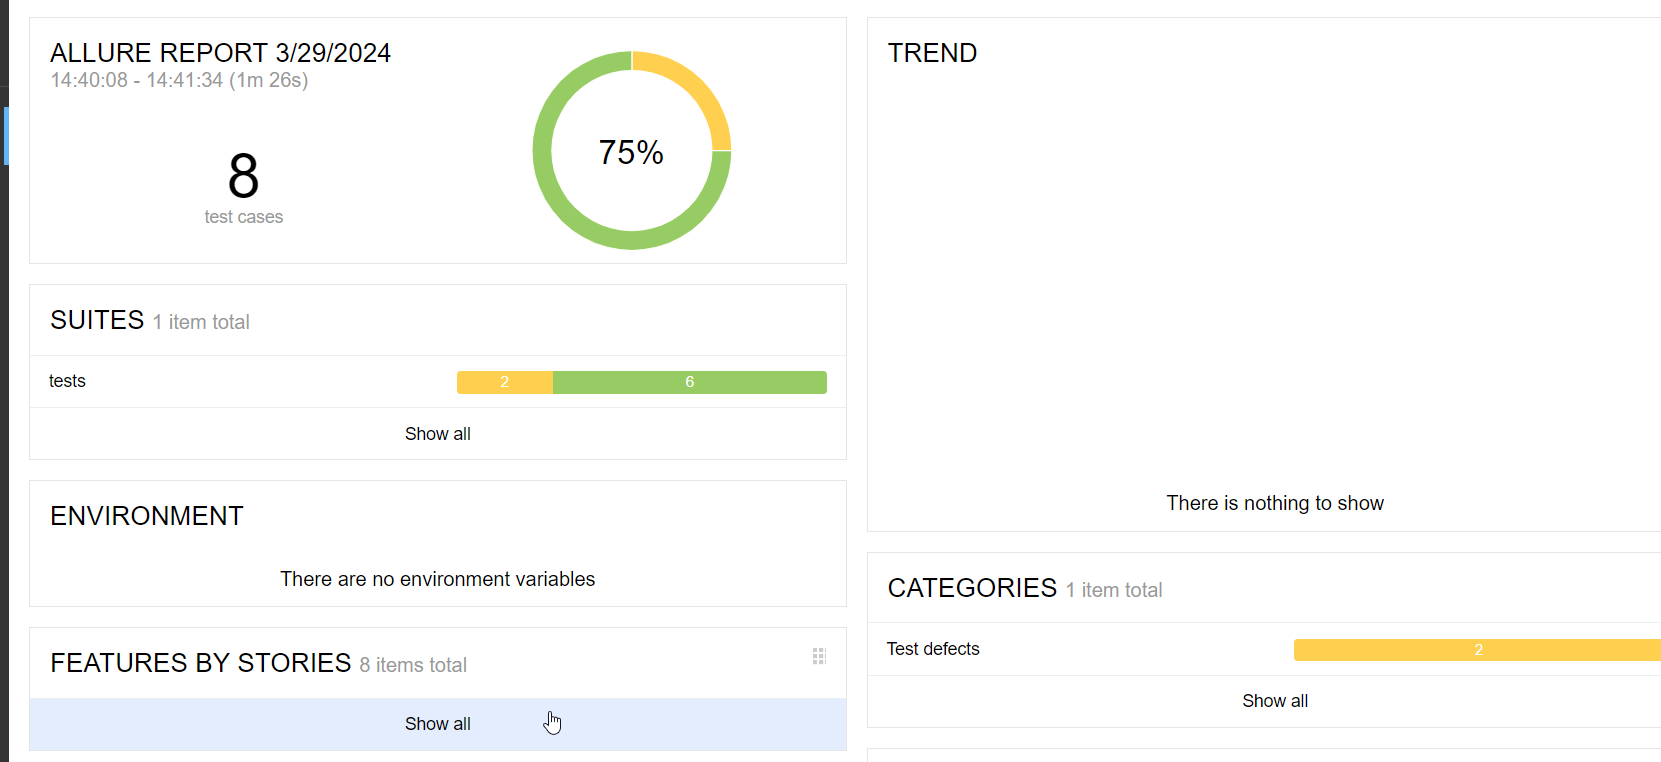
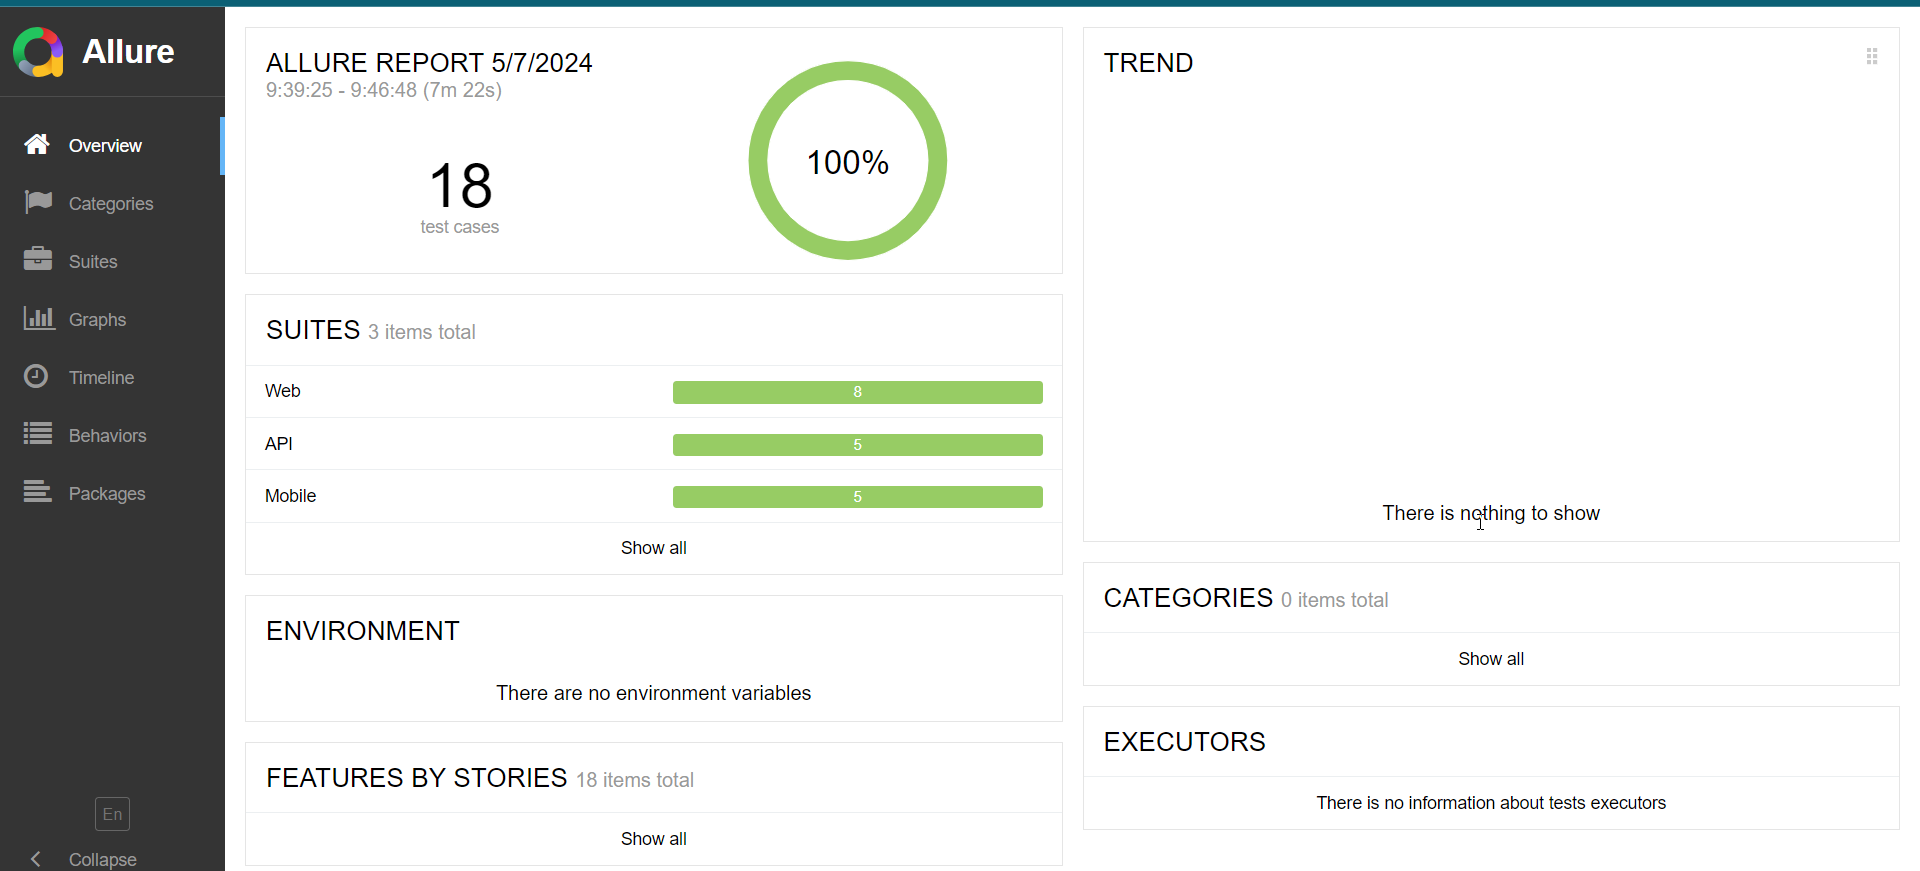
refactor

diff --git a/README.md b/README.md
@@ -1,10 +1,11 @@
-<h1> Проект по тестированию интернет-магазина "KazanExpress"</h1>
+# Проект по автоматизации тестирования сайта и мобильного приложения KazanExpress.ru
 
 > <a target="_blank" href="https://kazanexpress.ru/">Ссылка на сайт</a>
 ![This is an image](design/images/main.png)
 ----
 ### Проект реализован с использованием:
 <img src="design/icons/python-original.svg" width="50"> <img src="design/icons/pytest.png" width="50"> <img src="design/icons/intellij_pycharm.png" width="50"> <img src="design/icons/selene.png" width="50"> <img src="design/icons/selenoid.png" width="50"> <img src="design/icons/jenkins.png" width="50"> <img src="design/icons/allure_report.png" width="50"> <img src="design/icons/allure_testops.png" width="50"> <img src="design/icons/tg.png" width="50"> <img src="design/icons/jira.png" width="50">
+<img src="design/icons/appium.png" width="50"><img src="design/icons/Github.png" width="50"><img src="design/icons/pysharm.png" width="50"><img src="design/icons/request.png" width="50">
 
 ----
 
@@ -17,6 +18,7 @@
 * Интеграция с Allure TestOps
 * Автоматизация отчетности о тестовых прогонах и тест-кейсах в Jira
 * Запуск web/UI автотестов в Selenoid
+* Запуск мобильных автотестов в Browserstack
 
  ### Список проверок, реализованных в web/UI автотестах
 
@@ -30,6 +32,26 @@
 - [x] Удаление товара из корзины
 
 ----
+ ### Список проверок, реализованных в API автотестах
+
+- [x] Запрос на список городов, доступных для доставки
+- [x] Запрос на получение карточки товара
+- [x] Запрос на добавление товара в избранное
+- [x] Запрос на удаление товара из избранного
+- [x] Запрос на изменение персональных данных в профиле покупателя
+
+____
+
+ ### Список проверок, реализованных в mobile автотестах
+
+- [x] Добавление товара в избранное
+- [x] Удаление товара из избранного
+- [x] Добавление товара в корзину
+- [x] Удаление товара из корзины
+- [x] Поиск товара в каталоге
+
+____
+
 ### Локальный запуск
 > Для локального запуска с дефолтными значениями необходимо выполнить команду:
 ```
@@ -37,25 +59,50 @@ python -m venv .venv
 source .venv/bin/activate
 pip install poetry
 poetry install --no-root
-pytest tests
+pytest .
 ```
 ----
 ### Удаленный запуск автотестов выполняется на сервере Jenkins
-> <a target="_blank" href="https://jenkins.autotests.cloud/job/test_kaz_sh/">Ссылка на проект в Jenkins</a>
+> <a target="_blank" href="https://jenkins.autotests.cloud/job/mif_kaz_project">Ссылка на проект в Jenkins</a>
 #### Для запуска автотестов в Jenkins
 
-1. Открыть <a target="_blank" href="https://jenkins.autotests.cloud/job/test_kaz_sh/">проект</a>
-2. Нажать кнопку `Build`
-3. Результат запуска сборки можно посмотреть в отчёте Allure
+1. Открыть <a target="_blank" href="https://jenkins.autotests.cloud/job/mif_kaz_project">проект</a>
+2. Нажать кнопку `Build with parameters`
+3. Выбрать тесты для запуска
+4. Результат запуска сборки можно посмотреть в отчёте Allure, в запуске Allure TestOps
 ----
+
+### Параметры сборки
+
+>
+> ><code>tests</code> – запускает все тесты проекта api, mobile, web.
+>
+> ><code>tests/api_tests</code> – запускает только api тесты.
+>
+> ><code>tests/mobile_tests</code> – запускает только mobile тесты.
+> 
+> ><code>tests/web_tests</code> – запускает только web тесты.
 ### Allure отчет
 
 
 #### Общие результаты
 ![This is an image](design/images/allure_report.png)
+#### Список тест кейсов в Allure 
+![This is an image](design/images/allure_list_tk.png)
+#### Пример тест кейса в Allure с логированием и attachments 
+![This is an image](design/images/allure_log_attach.png)
+#### Примеры запуска в Allure TestOps
+![This is an image](design/images/allure_testops.png)
+
+![This is an image](design/images/allure_testOps_web.png)
 #### Список тест кейсов в Allure TestOps
-![This is an image](design/images/allure-testops.png)
+![This is an image](design/images/testops_tk.png)
 #### Нотификация в Telegram
-![This is an image](design/images/бот.png)
+![This is an image](design/images/bot.png)
+#### Видео прохождения теста Web
+![This is an video](design/images/video.gif)
+#### Видео прохождения теста Mobile
+![This is an video](design/images/mobile.gif)
+
 
 
